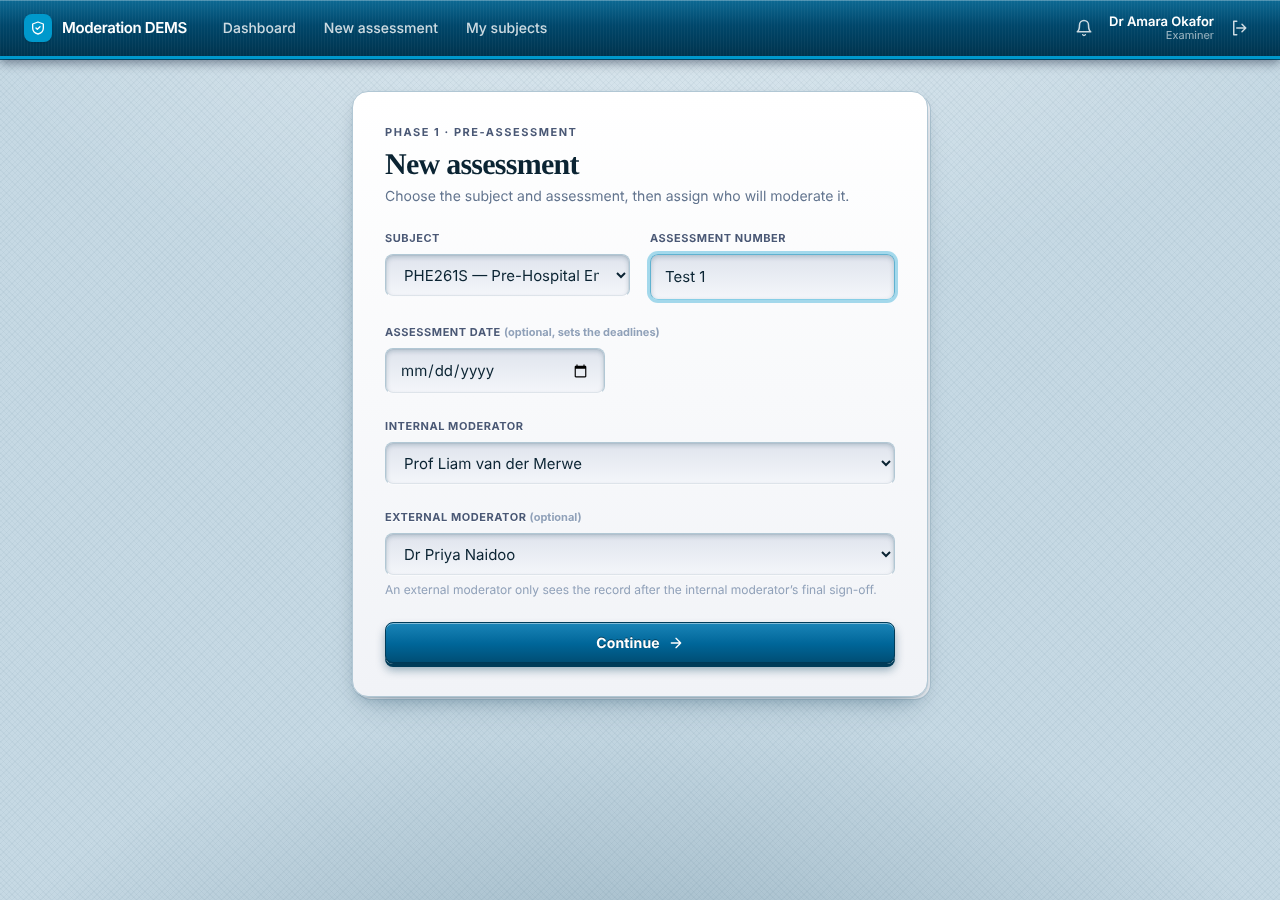
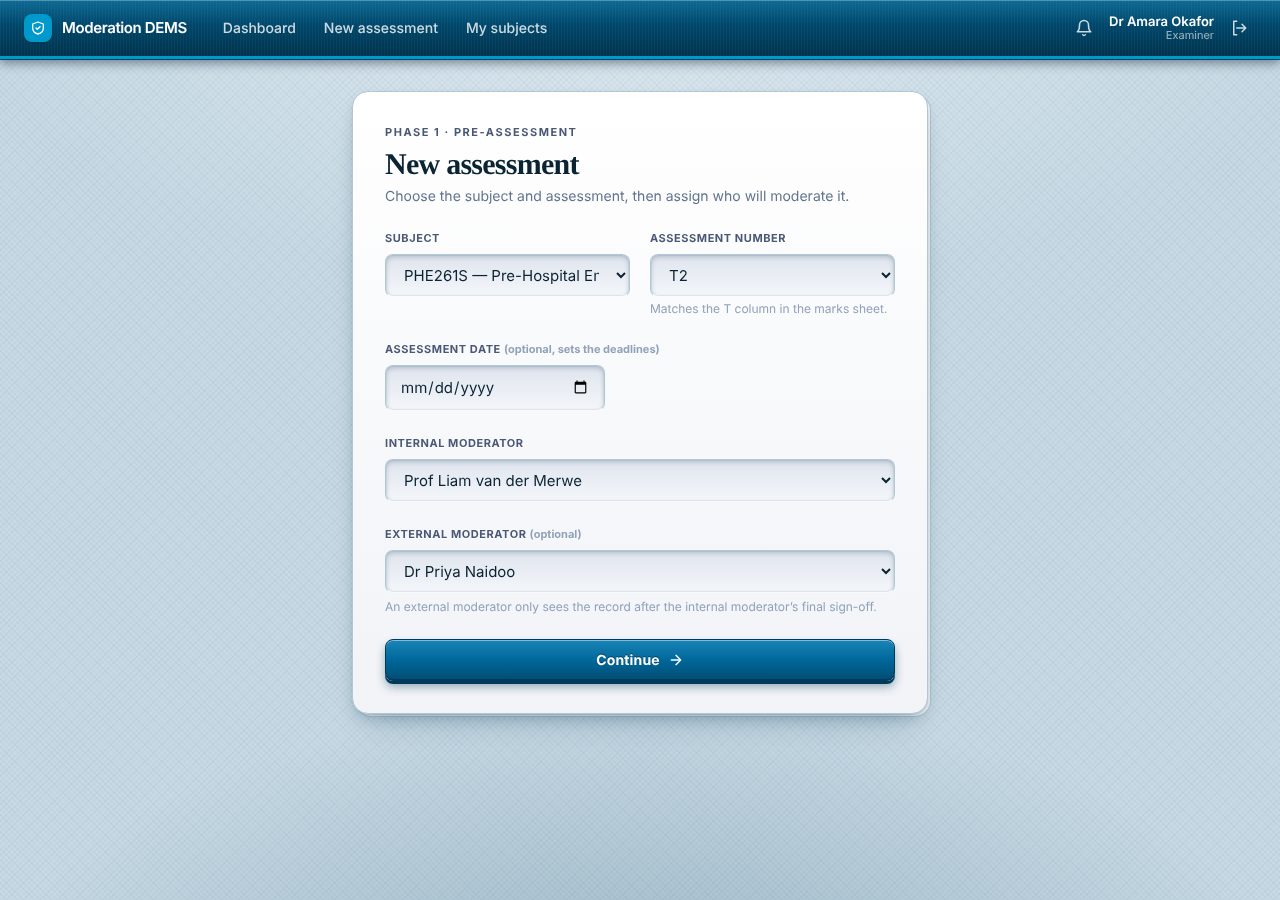
Assessment number is a T1-T7 dropdown linked to the marks-sheet column
Claude-Session: https://claude.ai/code/session_01KMAi7XbmWaGJHSxj4HaG4y

Changed region(s): [[0.2812, 0.4667, 0.7188, 0.8089], [0.2812, 0.28, 0.7188, 0.4356]]

diff --git a/resources/js/app.js b/resources/js/app.js
@@ -241,12 +241,14 @@ Alpine.data('section2', (cfg) => ({
         return this.current?.columns ?? [];
     },
     /** Pre-select the test that matches the assessment number ("Test 2" → T2) when it has marks. */
+    linked: /^T[1-9]\d*$/i.test(cfg.number) ? cfg.number.toUpperCase() : null, // assessment number = marks-sheet column
+    linkedFound: false,
     autoPick() {
         this.column = 0;
-        const n = (cfg.number.match(/\d+/) ?? [])[0];
-        const hit = n ? this.cols.find((c) => c.header.toUpperCase() === `T${n}` && c.nonBlank > 0) : null;
         const only = this.cols.filter((c) => c.nonBlank > 0);
-        this.column = hit ? hit.index : only.length === 1 ? only[0].index : 0;
+        const hit = this.linked ? this.cols.find((c) => c.header.trim().toUpperCase() === this.linked && c.nonBlank > 0) : null;
+        this.linkedFound = !!hit;
+        this.column = hit ? hit.index : this.linked ? 0 : only.length === 1 ? only[0].index : 0;
     },
     get source() {
         if (this.mode === 'excel') return this.attId && this.sheet && Number(this.column) ? { type: 'excel', attachment_id: this.attId, sheet: this.sheet, column: Number(this.column) } : null;

diff --git a/resources/views/assessments/panels/section2.blade.php b/resources/views/assessments/panels/section2.blade.php
@@ -31,7 +31,9 @@ $feedback = $a->records->where('decision', 'REVISION_REQUESTED')->where('stage',
       <div x-show="sheets.length" class="grid gap-4 sm:grid-cols-2">
         <div x-show="sheets.length > 1"><label class="label" for="sheet">Sheet</label><select id="sheet" class="field" x-model="sheet" @change="autoPick()"><template x-for="s in sheets" :key="s.name"><option :value="s.name" x-text="s.name"></option></template></select></div>
         <div><label class="label" for="column"><x-icon name="table" class="mr-1 inline h-3.5 w-3.5" /><span x-text="current && current.format === 'class-list' ? 'Test (T1, T2 …)' : 'Assessment column'"></span></label>
-          <select id="column" class="field" x-model.number="column"><option value="0">Select a column…</option><template x-for="c in cols" :key="c.index"><option :value="c.index" :disabled="c.nonBlank === 0" x-text="`${c.header}${c.weight ? ' · ' + c.weight + '% of year mark' : ''} · ${c.nonBlank ? c.nonBlank + ' marks' : 'no marks yet'}`"></option></template></select></div>
+          <select id="column" class="field" x-model.number="column" :disabled="linked && linkedFound"><option value="0">Select a column…</option><template x-for="c in cols" :key="c.index"><option :value="c.index" :disabled="c.nonBlank === 0" x-text="`${c.header}${c.weight ? ' · ' + c.weight + '% of year mark' : ''} · ${c.nonBlank ? c.nonBlank + ' marks' : 'no marks yet'}`"></option></template></select>
+          <p x-show="linked && linkedFound" x-cloak class="mt-1.5 text-xs font-medium text-emerald-600 dark:text-emerald-400">✓ Linked to this assessment (<span x-text="linked"></span>).</p>
+          <p x-show="linked && !linkedFound && sheets.length" x-cloak class="mt-1.5 text-xs font-medium text-amber-600 dark:text-amber-400">This assessment is <span x-text="linked"></span>, but this sheet has no <span x-text="linked"></span> column with marks. Check you uploaded the right file, or pick the column yourself.</p></div>
       </div>
     </div>
     <div x-show="mode === 'manual'" x-cloak class="mt-5"><label class="label" for="manual">Marks (one per line)</label><textarea id="manual" rows="6" class="field font-mono text-sm" placeholder="72&#10;48.5&#10;55" x-model="manual"></textarea><p class="mt-1.5 text-xs text-slate-400">Anonymous marks only — no names or student numbers.</p></div>

diff --git a/tests/Feature/LifecycleTest.php b/tests/Feature/LifecycleTest.php
@@ -135,7 +135,7 @@ class LifecycleTest extends TestCase
         return $this->actingAs($u);
     }
 
-    private function newAssessment(bool $withExternal = true, ?Subject $subject = null, string $number = 'Test 1'): Assessment
+    private function newAssessment(bool $withExternal = true, ?Subject $subject = null, string $number = 'T1'): Assessment
     {
         $subject ??= $this->subject;
         $this->as($this->examiner)->post('/assessments', [
@@ -459,6 +459,16 @@ class LifecycleTest extends TestCase
         $this->as($this->examiner)->post("/assessments/{$a->id}/attachments", ['kind' => 'MEMO', 'file' => $fake], ['Accept' => 'application/json'])->assertStatus(400);
     }
 
+    public function test_assessment_number_is_one_of_t1_to_t7(): void
+    {
+        $this->as($this->examiner)->get('/assessments/create')->assertOk()->assertSee('Matches the T column')->assertSee('>T7<', false);
+        foreach (['Test 1', 'T8', 't1', ''] as $bad) {
+            $this->as($this->examiner)->post('/assessments', ['subject_id' => $this->subject->id, 'number' => $bad, 'internal_moderator_id' => $this->internal->id])->assertSessionHasErrors('number');
+        }
+        $this->as($this->examiner)->post('/assessments', ['subject_id' => $this->subject->id, 'number' => 'T7', 'internal_moderator_id' => $this->internal->id])->assertRedirect();
+        $this->assertSame('CSC101 · T7', Assessment::firstOrFail()->title());
+    }
+
     public function test_login_and_pages_render_for_every_stage(): void
     {
         $this->get('/login')->assertOk()->assertSee('Welcome back');
@@ -493,7 +503,7 @@ class LifecycleTest extends TestCase
         $phe = Subject::create(['code' => 'PHE261S', 'name' => 'Pre-hospital care 2', 'hod_id' => $this->hod->id]);
         $this->responsible($this->examiner, $phe, Role::Examiner);
         $this->responsible($this->internal, $phe, Role::InternalModerator);
-        $a = $this->newAssessment(false, $phe, 'Test 2');
+        $a = $this->newAssessment(false, $phe, 'T2');
         $this->submitSection1($a);
         $this->approveGate1($a);
 

diff --git a/resources/views/assessments/create.blade.php b/resources/views/assessments/create.blade.php
@@ -13,7 +13,8 @@
   <div class="grid gap-5 sm:grid-cols-2">
     <div><label class="label" for="subject">Subject</label>
       <select id="subject" name="subject_id" required class="field" x-model="subject" @change="internal = ''"><option value="">Select…</option>@foreach ($subjects as $s)<option value="{{ $s->id }}">{{ $s->code }} — {{ $s->name }}</option>@endforeach</select></div>
-    <div><label class="label" for="number">Assessment number</label><input id="number" name="number" required maxlength="40" class="field" placeholder="e.g. Test 1, Exam" value="{{ old('number') }}"></div>
+    <div><label class="label" for="number">Assessment number</label><select id="number" name="number" required class="field"><option value="">Select…</option>@foreach (config('dems.assessment_numbers') as $n)<option value="{{ $n }}" @selected(old('number') === $n)>{{ $n }}</option>@endforeach</select>
+      <p class="mt-1 text-xs text-slate-400">Matches the T column in the marks sheet.</p></div>
   </div>
   <div><label class="label" for="adate">Assessment date <span class="normal-case tracking-normal text-slate-400">(optional, sets the deadlines)</span></label>
     <input id="adate" name="assessment_date" type="date" class="field max-w-[220px]" x-model="date">

diff --git a/app/Http/Controllers/AssessmentController.php b/app/Http/Controllers/AssessmentController.php
@@ -24,11 +24,11 @@ class AssessmentController extends Controller
     {
         $data = $request->validate([
             'subject_id' => ['required', 'integer'],
-            'number' => ['required', 'string', 'max:40'],
+            'number' => ['required', 'string', \Illuminate\Validation\Rule::in(config('dems.assessment_numbers'))],
             'internal_moderator_id' => ['required', 'integer'],
             'external_moderator_id' => ['nullable', 'integer'],
             'assessment_date' => ['nullable', 'date'],
-        ], ['number.required' => 'Enter the assessment number.', 'internal_moderator_id.required' => 'Choose an internal moderator.']);
+        ], ['number.required' => 'Choose the assessment number.', 'number.in' => 'Choose T1 to T7.', 'internal_moderator_id.required' => 'Choose an internal moderator.']);
         $a = $workflow->create($request->user(), $data, $this->meta($request));
 
         return redirect()->route('assessments.show', $a);

diff --git a/config/dems.php b/config/dems.php
@@ -17,6 +17,9 @@ return [
 
     'max_marks_rows' => 20000,
 
+    // The assessment number is one of these; it is linked to the column of the same name in the marks sheet (class list).
+    'assessment_numbers' => ['T1', 'T2', 'T3', 'T4', 'T5', 'T6', 'T7'],
+
     // Moderation windows around the assessment date.
     'pre_moderation_days' => 14,   // pre-moderation must be finished this many days BEFORE the assessment
     'post_moderation_days' => 14,  // post-moderation must be finished this many days AFTER it

diff --git a/docs/manuals/01-examiner.md b/docs/manuals/01-examiner.md
@@ -4,7 +4,7 @@ You own an assessment from the first draft to the final signed report. You act i
 
 ## Before you start: choose your subjects
 
-Open **My subjects**, tick the subjects you are responsible for and save. You can only start assessments for those. When you create an assessment, enter the **assessment date**: pre-moderation must be finished 14 days before it and post-moderation 14 days after it; the due dates show on your dashboard and you get reminders.
+Open **My subjects**, tick the subjects you are responsible for and save. You can only start assessments for those. When you create an assessment, choose the **assessment number** (T1–T7: it is linked to the column of the same name in the marks sheet you upload later) and enter the **assessment date**: pre-moderation must be finished 14 days before it and post-moderation 14 days after it; the due dates show on your dashboard and you get reminders.
 
 ![My subjects](../screenshots/my-subjects.png)
 
@@ -24,7 +24,7 @@ Open **My subjects**, tick the subjects you are responsible for and save. You ca
 
 ## Before you start: choose your subjects
 
-Open **My subjects**, tick the subjects you are responsible for and save. You can only start assessments for those. When you create an assessment, enter the **assessment date**: pre-moderation must be finished 14 days before it and post-moderation 14 days after it; the due dates show on your dashboard and you get reminders.
+Open **My subjects**, tick the subjects you are responsible for and save. You can only start assessments for those. When you create an assessment, choose the **assessment number** (T1–T7: it is linked to the column of the same name in the marks sheet you upload later) and enter the **assessment date**: pre-moderation must be finished 14 days before it and post-moderation 14 days after it; the due dates show on your dashboard and you get reminders.
 
 ![My subjects](../screenshots/my-subjects.png)
 
@@ -43,7 +43,7 @@ Status becomes **Pending Pre-Moderation Review** and the internal moderator is n
 
 ## Before you start: choose your subjects
 
-Open **My subjects**, tick the subjects you are responsible for and save. You can only start assessments for those. When you create an assessment, enter the **assessment date**: pre-moderation must be finished 14 days before it and post-moderation 14 days after it; the due dates show on your dashboard and you get reminders.
+Open **My subjects**, tick the subjects you are responsible for and save. You can only start assessments for those. When you create an assessment, choose the **assessment number** (T1–T7: it is linked to the column of the same name in the marks sheet you upload later) and enter the **assessment date**: pre-moderation must be finished 14 days before it and post-moderation 14 days after it; the due dates show on your dashboard and you get reminders.
 
 ![My subjects](../screenshots/my-subjects.png)
 
@@ -55,7 +55,7 @@ The record returns to **Revision Requested** with the moderator's feedback at th
 
 ## Before you start: choose your subjects
 
-Open **My subjects**, tick the subjects you are responsible for and save. You can only start assessments for those. When you create an assessment, enter the **assessment date**: pre-moderation must be finished 14 days before it and post-moderation 14 days after it; the due dates show on your dashboard and you get reminders.
+Open **My subjects**, tick the subjects you are responsible for and save. You can only start assessments for those. When you create an assessment, choose the **assessment number** (T1–T7: it is linked to the column of the same name in the marks sheet you upload later) and enter the **assessment date**: pre-moderation must be finished 14 days before it and post-moderation 14 days after it; the due dates show on your dashboard and you get reminders.
 
 ![My subjects](../screenshots/my-subjects.png)
 
@@ -84,7 +84,7 @@ The app checks the file against your assessment and warns you (without blocking)
 
 ## Before you start: choose your subjects
 
-Open **My subjects**, tick the subjects you are responsible for and save. You can only start assessments for those. When you create an assessment, enter the **assessment date**: pre-moderation must be finished 14 days before it and post-moderation 14 days after it; the due dates show on your dashboard and you get reminders.
+Open **My subjects**, tick the subjects you are responsible for and save. You can only start assessments for those. When you create an assessment, choose the **assessment number** (T1–T7: it is linked to the column of the same name in the marks sheet you upload later) and enter the **assessment date**: pre-moderation must be finished 14 days before it and post-moderation 14 days after it; the due dates show on your dashboard and you get reminders.
 
 ![My subjects](../screenshots/my-subjects.png)
 
@@ -98,7 +98,7 @@ A moderator can send the results back with feedback. The record returns to **Rea
 
 ## Before you start: choose your subjects
 
-Open **My subjects**, tick the subjects you are responsible for and save. You can only start assessments for those. When you create an assessment, enter the **assessment date**: pre-moderation must be finished 14 days before it and post-moderation 14 days after it; the due dates show on your dashboard and you get reminders.
+Open **My subjects**, tick the subjects you are responsible for and save. You can only start assessments for those. When you create an assessment, choose the **assessment number** (T1–T7: it is linked to the column of the same name in the marks sheet you upload later) and enter the **assessment date**: pre-moderation must be finished 14 days before it and post-moderation 14 days after it; the due dates show on your dashboard and you get reminders.
 
 ![My subjects](../screenshots/my-subjects.png)
 
@@ -110,7 +110,7 @@ When all signatures are in, the record shows **Moderation complete** and you can
 
 ## Before you start: choose your subjects
 
-Open **My subjects**, tick the subjects you are responsible for and save. You can only start assessments for those. When you create an assessment, enter the **assessment date**: pre-moderation must be finished 14 days before it and post-moderation 14 days after it; the due dates show on your dashboard and you get reminders.
+Open **My subjects**, tick the subjects you are responsible for and save. You can only start assessments for those. When you create an assessment, choose the **assessment number** (T1–T7: it is linked to the column of the same name in the marks sheet you upload later) and enter the **assessment date**: pre-moderation must be finished 14 days before it and post-moderation 14 days after it; the due dates show on your dashboard and you get reminders.
 
 ![My subjects](../screenshots/my-subjects.png)
 

diff --git a/docs/workflow.md b/docs/workflow.md
@@ -6,6 +6,7 @@ How a record moves through Moderation DEMS, who can act at each step, and what t
 
 - **Subject list:** `php artisan dems:import-subjects [file]` (also run by the seeder, and available as *Admin → Import subject list*). Columns: Qualification, Subject Code, Subject Name. A code offered in several qualifications is one subject listing all of them.
 - **My subjects:** examiners and internal moderators choose their subjects (`subject_user`, one set per role). An examiner can only create an assessment for a chosen subject; if any internal moderators registered for the subject, one of them must be picked (otherwise anyone may be).
+- **Assessment number:** a dropdown, `T1`–`T7` (`config/dems.php` → `assessment_numbers`). At post-moderation the marks sheet column with the same header is selected automatically and locked; if the sheet has no such column with marks, the examiner is warned and may pick another.
 - **Assessment date:** entered when creating the assessment (or in Section 1). Pre-moderation (Section 1 through Gate 1) is due `assessment date − 14 days`; post-moderation (Section 2 through final sign-off) is due `assessment date + 14 days`. Deadlines are shown, never block work.
 - **Reminders:** `dems:deadlines` (scheduled daily, and also run the first time anyone opens the dashboard each day, since the free host has no scheduler) notifies whoever the record is waiting on when it is due within 3 days or overdue; the HOD is added once it is overdue. One reminder per person and record per day.
 
